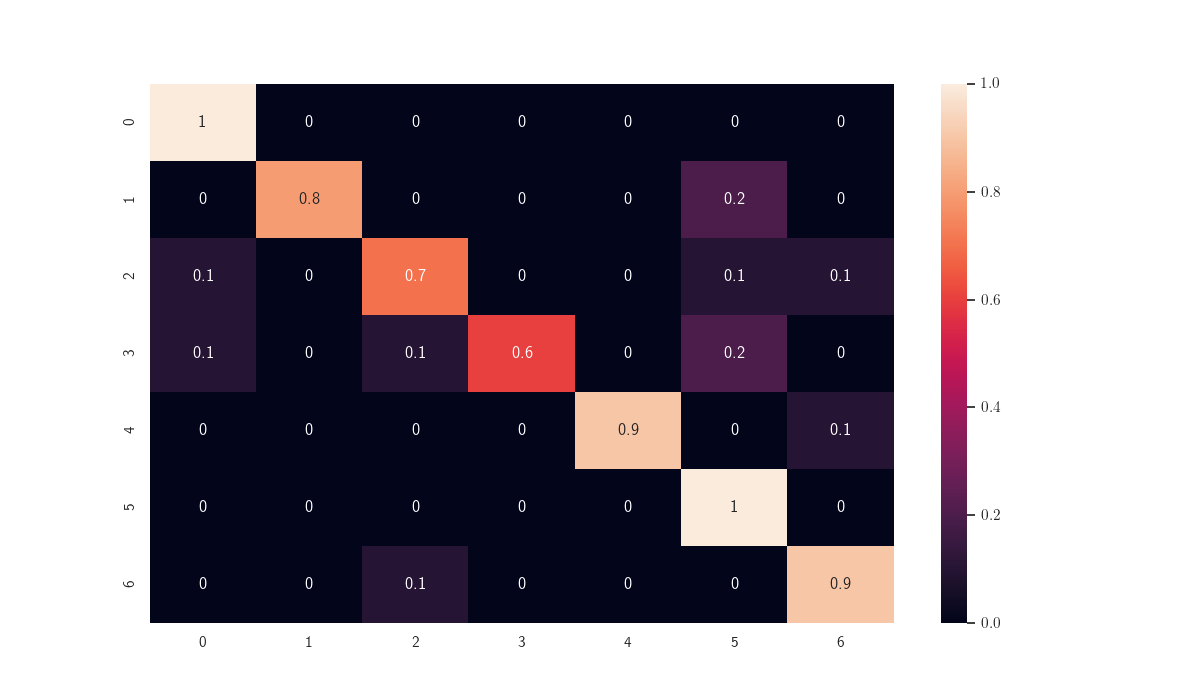
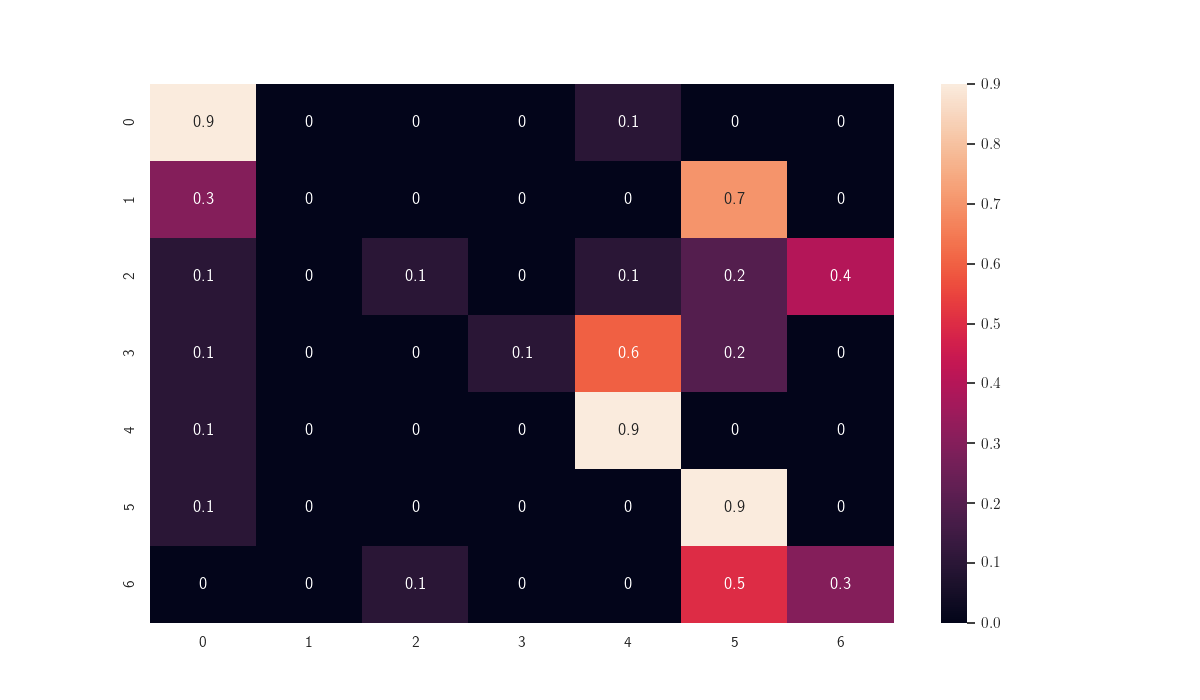
Added VGG

diff --git a/run.py b/run.py
@@ -10,15 +10,11 @@ from torchvision.transforms import ToTensor, Normalize, Resize, Compose, RandomV
 
 import torch
 from torchvision import datasets, transforms
-import pytorch_lightning as pl
+import torchvision.models as models
 
-import os
 from tqdm import tqdm
 from torch import nn
-from pytorch_lightning.callbacks import ModelCheckpoint
 
-from ViT import ViT
-from LeViT import LeViT
 from sklearn.model_selection import GridSearchCV, KFold
 import numpy as np
 
@@ -33,7 +29,6 @@ import pandas as pd
 import seaborn as sns
 
 from data_loaders.data_loader import RemoteSensingDataset
-from sklearn.model_selection import train_test_split
 
 term_width = 10
 
@@ -192,7 +187,7 @@ if __name__ == '__main__':
     num_labels = 21
     batch_size = 8
     num_workers = 8
-    max_epochs = 100
+    max_epochs = 50
     split = 0.8
     dataset_path = "UCM"
     full_path = "/home/antonio/PycharmProjects/ViT-MLP/" + dataset_path
@@ -204,11 +199,11 @@ if __name__ == '__main__':
         RandomVerticalFlip(0.3),
         RandomHorizontalFlip(0.3),
         ViTFeatureExtractorTransforms(model_name_or_path, feature_extractor),
-        ExtractFeatures(feature_extractor)
+        # ExtractFeatures(feature_extractor)
     ])
     transform_test = transforms.Compose([
         ViTFeatureExtractorTransforms(model_name_or_path, feature_extractor),
-        ExtractFeatures(feature_extractor)
+        # ExtractFeatures(feature_extractor)
     ])
 
     train_dataset = RemoteSensingDataset(dataset_dir=full_path, type='train', split=split, transform=transform_train)
@@ -233,9 +228,13 @@ if __name__ == '__main__':
         train_loader = DataLoader(dataset, batch_size=8, sampler=train_subsampler, num_workers=8)
         test_loader = DataLoader(dataset, batch_size=1, sampler=test_subsampler, num_workers=8)
 
-        model = ConvTransformer(input_nc=6, out_classes=num_labels, n_downsampling=3, depth=9, heads=6, dropout=0.5)
-        model.apply(reset_weights)
+        # model = ConvTransformer(input_nc=6, out_classes=num_labels, n_downsampling=3, depth=9, heads=6, dropout=0.5)
+        # model.apply(reset_weights)
 
+        model = models.vgg16(pretrained=True)
+        num_ftrs = model.classifier[6].in_features
+        model.classifier[6] = nn.Linear(num_ftrs, num_labels)
+        
         model_parameters = filter(lambda p: p.requires_grad, model.parameters())
         params = sum([np.prod(p.size()) for p in model_parameters])
         print(params)
@@ -382,6 +381,50 @@ if __name__ == '__main__':
         # Print fold results
     print(f'K-FOLD CROSS VALIDATION RESULTS FOR {k_folds} FOLDS')
     print('--------------------------------')
+
+    # train_dataset = RemoteSensingDataset(dataset_dir=full_path, type='train', split=split, transform=transform_test)
+    # test_dataset = RemoteSensingDataset(dataset_dir=full_path, type='test', split=split, transform=transform_test)
+    # dataset = ConcatDataset([train_dataset, test_dataset])
+    #
+    # test_loader = DataLoader(dataset, batch_size=1, num_workers=8)
+    #
+    # import torchvision.models as models
+    #
+    # device = torch.device("cuda" if torch.cuda.is_available() else "cpu")
+    # model = models.vgg16(pretrained=True)
+    #
+    # # print(model)
+    # num_ftrs = model.classifier[6].in_features
+    # model.classifier[6] = nn.Linear(num_ftrs, num_labels)
+    # model = model.to(device)
+    #
+    # correct = 0.0
+    # total = 0.0
+    # y_pred = []
+    # y_true = []
+    #
+    # precision = Precision(num_classes=num_labels, top_k=3)
+    # precision = precision.to(device)
+    #
+    # with torch.no_grad():
+    #     for data in tqdm(test_loader):
+    #         images, labels = data
+    #         images = images.to(device)
+    #         labels = labels.to(device)
+    #
+    #         outputs = model(images)
+    #         _, predicted = torch.max(outputs.data, 1)
+    #
+    #         precision(outputs, labels)
+    #
+    #         y_pred.extend(predicted.cpu().numpy())
+    #         y_true.extend(labels.cpu().numpy())
+    #
+    #         total += labels.size(0)
+    #         correct += (predicted == labels).sum().item()
+    #
+    # print('Accuracy of the network on the test images: %f %%' % (
+    #         100 * correct / total))
     sum = 0.0
     for key, value in results.items():
         print(f'Fold {key}: {value} %')

diff --git a/data_loaders/data_loader.py b/data_loaders/data_loader.py
@@ -43,7 +43,6 @@ class RemoteSensingDataset(Dataset):
         return l
 
     def __getitem__(self, idx):
-        # print(os.path.join(self.dataset_dir, str(self.img_labels[idx]), self.images[idx]))
         img_path = os.path.join(self.dataset_dir, str(self.img_labels[idx]), self.images[idx])
         image = Image.open(img_path)
         label = self.img_labels[idx]

diff --git a/img_model.py b/img_model.py
@@ -11,6 +11,7 @@ from transformers import (AdamW, get_linear_schedule_with_warmup, ViTForImageCla
 
 from torch import nn
 import numpy as np
+from matplotlib import  pyplot as plt
 
 warnings.filterwarnings('ignore')
 
